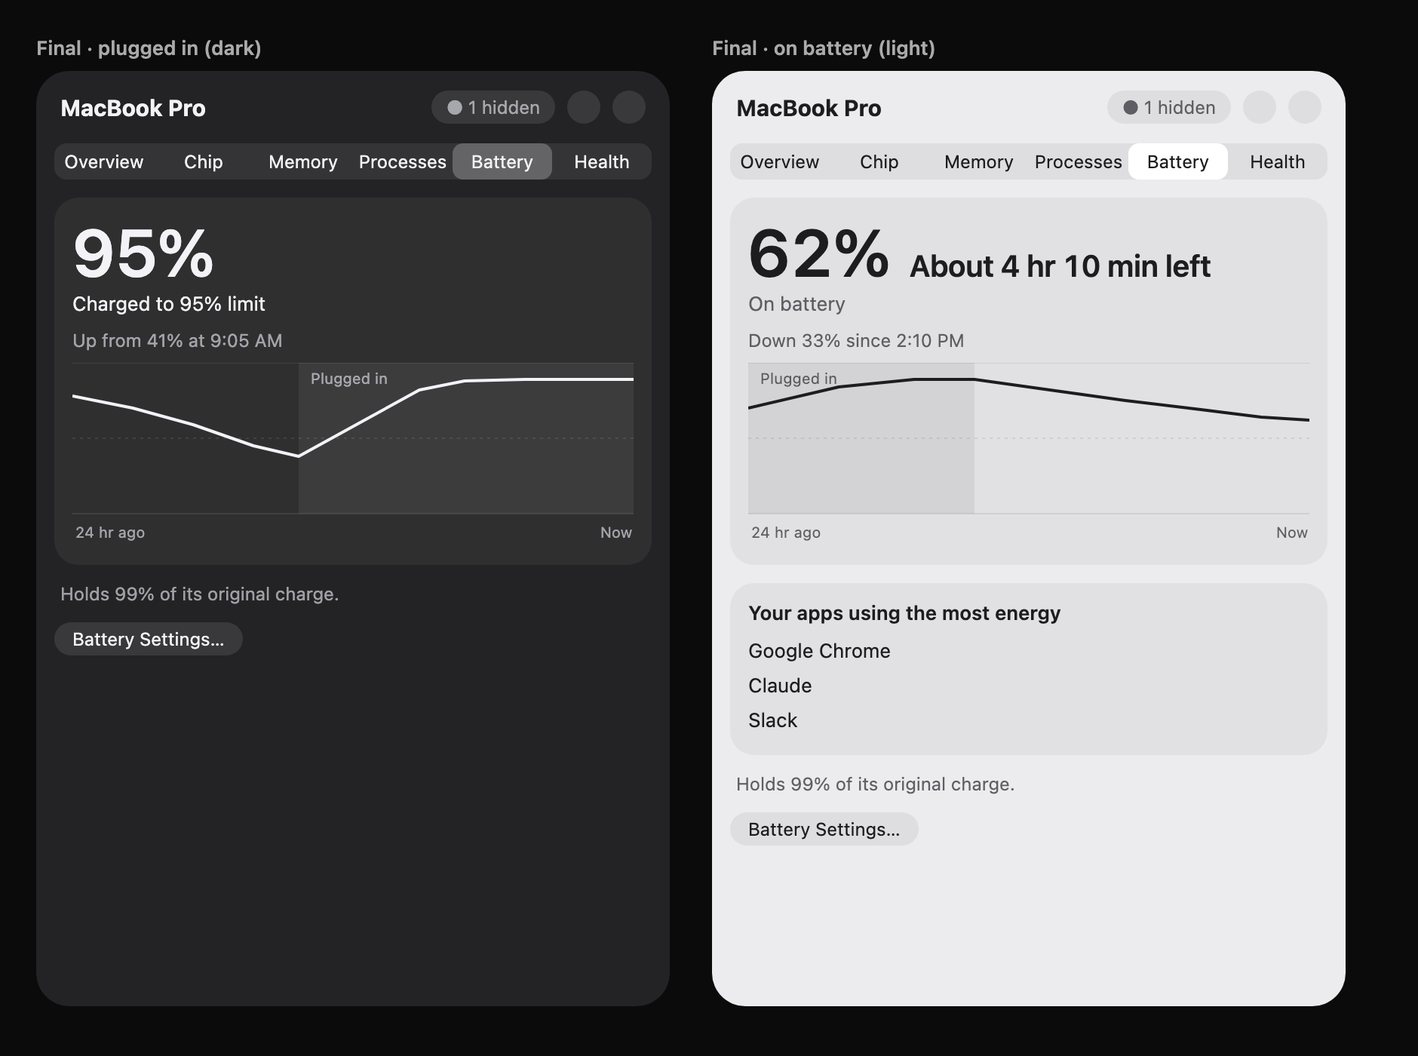
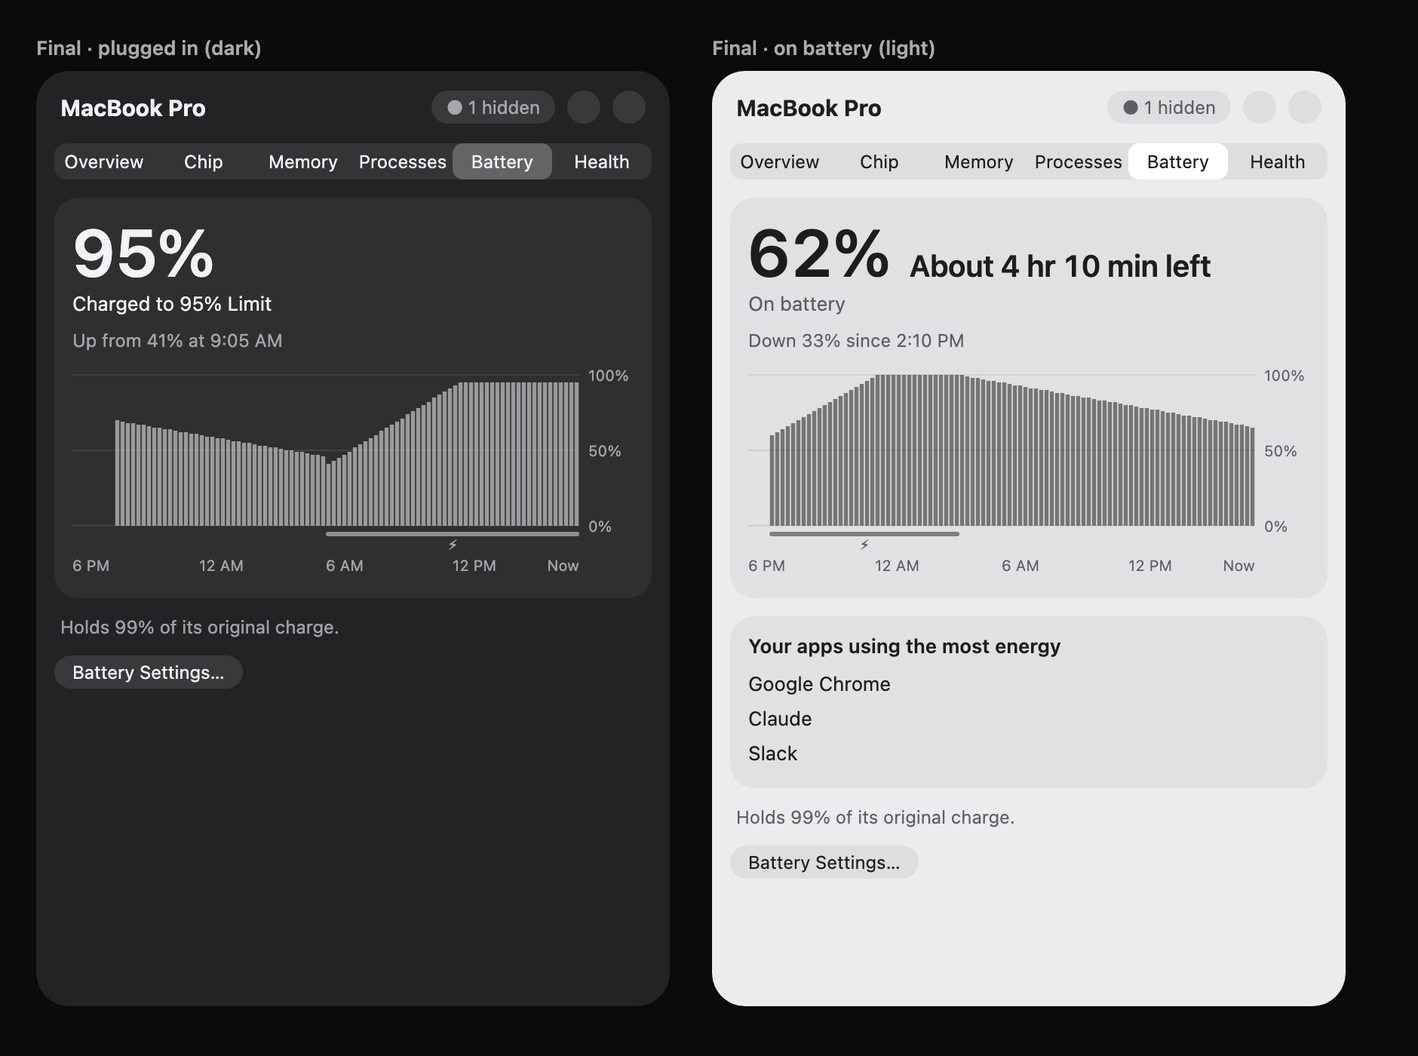
Vitals Battery design: lessons from macOS Battery settings (Apple-style chart, exact wording, Low Power Mode)

diff --git a/research/vitals-battery-redesign/final.html b/research/vitals-battery-redesign/final.html
@@ -32,24 +32,216 @@ svg text{font:10px -apple-system,system-ui;fill:var(--t3)}
 </style></head><body><div class="wrap"><div class="cap">Final · plugged in (dark)</div><div class="p"><div class="hd"><b>MacBook Pro</b><span class="cap2">● 1 hidden</span><span class="circ"></span><span class="circ"></span></div>
 <div class="seg"><span>Overview</span><span>Chip</span><span>Memory</span><span>Processes</span><span class="on">Battery</span><span>Health</span></div>
 <div class="m"><span class="fig" style="font-size:44px;line-height:1.1">95%</span>
-<div style="font-size:13px;margin-top:2px">Charged to 95% limit</div><div class="sub" style="margin-top:10px">Up from 41% at 9:05 AM</div>
-<svg width="372" height="122" viewBox="0 0 372 122" style="display:block;margin-top:8px">
-  <rect x="150" y="0" width="222" height="100" fill="var(--t1)" opacity=".07"/>
-  <text x="158" y="14" style="fill:var(--t2)">Plugged in</text>
-  <line x1="0" y1="0" x2="372" y2="0" stroke="var(--line)"/><line x1="0" y1="50" x2="372" y2="50" stroke="var(--line)" stroke-dasharray="2 3"/><line x1="0" y1="100" x2="372" y2="100" stroke="var(--line)"/>
-  <path d="M0 22 L40 30 L80 41 L120 55 L150 62 L190 40 L230 18 L260 12 L300 11 L372 11" fill="none" stroke="var(--t1)" stroke-width="2" stroke-linejoin="round"/>
-  <text x="2" y="116" style="fill:var(--t2)">24 hr ago</text><text x="350" y="116" style="fill:var(--t2)">Now</text></svg></div>
+<div style="font-size:13px;margin-top:2px">Charged to 95% Limit</div><div class="sub" style="margin-top:10px">Up from 41% at 9:05 AM</div>
+<svg width="372" height="144" viewBox="0 -8 372 144" style="display:block;margin-top:8px">
+<line x1="0" y1="0" x2="336" y2="0" stroke="var(--line)"/><text x="342" y="4" style="fill:var(--t2)">100%</text>
+<line x1="0" y1="50" x2="336" y2="50" stroke="var(--line)"/><text x="342" y="54" style="fill:var(--t2)">50%</text>
+<line x1="0" y1="100" x2="336" y2="100" stroke="var(--line)"/><text x="342" y="104" style="fill:var(--t2)">0%</text>
+<rect x="28.4" y="30" width="2.7" height="70" fill="var(--t1)" opacity=".55"/>
+<rect x="31.9" y="31" width="2.7" height="69" fill="var(--t1)" opacity=".55"/>
+<rect x="35.4" y="32" width="2.7" height="68" fill="var(--t1)" opacity=".55"/>
+<rect x="38.9" y="32" width="2.7" height="68" fill="var(--t1)" opacity=".55"/>
+<rect x="42.4" y="33" width="2.7" height="67" fill="var(--t1)" opacity=".55"/>
+<rect x="45.9" y="33" width="2.7" height="67" fill="var(--t1)" opacity=".55"/>
+<rect x="49.4" y="34" width="2.7" height="66" fill="var(--t1)" opacity=".55"/>
+<rect x="52.9" y="35" width="2.7" height="65" fill="var(--t1)" opacity=".55"/>
+<rect x="56.4" y="35" width="2.7" height="65" fill="var(--t1)" opacity=".55"/>
+<rect x="59.9" y="36" width="2.7" height="64" fill="var(--t1)" opacity=".55"/>
+<rect x="63.4" y="36" width="2.7" height="64" fill="var(--t1)" opacity=".55"/>
+<rect x="66.9" y="37" width="2.7" height="63" fill="var(--t1)" opacity=".55"/>
+<rect x="70.4" y="38" width="2.7" height="62" fill="var(--t1)" opacity=".55"/>
+<rect x="73.9" y="38" width="2.7" height="62" fill="var(--t1)" opacity=".55"/>
+<rect x="77.4" y="39" width="2.7" height="61" fill="var(--t1)" opacity=".55"/>
+<rect x="80.9" y="39" width="2.7" height="61" fill="var(--t1)" opacity=".55"/>
+<rect x="84.4" y="40" width="2.7" height="60" fill="var(--t1)" opacity=".55"/>
+<rect x="87.9" y="41" width="2.7" height="59" fill="var(--t1)" opacity=".55"/>
+<rect x="91.4" y="41" width="2.7" height="59" fill="var(--t1)" opacity=".55"/>
+<rect x="94.9" y="42" width="2.7" height="58" fill="var(--t1)" opacity=".55"/>
+<rect x="98.4" y="42" width="2.7" height="58" fill="var(--t1)" opacity=".55"/>
+<rect x="101.9" y="43" width="2.7" height="57" fill="var(--t1)" opacity=".55"/>
+<rect x="105.4" y="44" width="2.7" height="56" fill="var(--t1)" opacity=".55"/>
+<rect x="108.9" y="44" width="2.7" height="56" fill="var(--t1)" opacity=".55"/>
+<rect x="112.4" y="45" width="2.7" height="55" fill="var(--t1)" opacity=".55"/>
+<rect x="115.9" y="45" width="2.7" height="55" fill="var(--t1)" opacity=".55"/>
+<rect x="119.4" y="46" width="2.7" height="54" fill="var(--t1)" opacity=".55"/>
+<rect x="122.9" y="47" width="2.7" height="53" fill="var(--t1)" opacity=".55"/>
+<rect x="126.4" y="47" width="2.7" height="53" fill="var(--t1)" opacity=".55"/>
+<rect x="129.9" y="48" width="2.7" height="52" fill="var(--t1)" opacity=".55"/>
+<rect x="133.4" y="48" width="2.7" height="52" fill="var(--t1)" opacity=".55"/>
+<rect x="136.9" y="49" width="2.7" height="51" fill="var(--t1)" opacity=".55"/>
+<rect x="140.4" y="50" width="2.7" height="50" fill="var(--t1)" opacity=".55"/>
+<rect x="143.9" y="50" width="2.7" height="50" fill="var(--t1)" opacity=".55"/>
+<rect x="147.4" y="51" width="2.7" height="49" fill="var(--t1)" opacity=".55"/>
+<rect x="150.9" y="51" width="2.7" height="49" fill="var(--t1)" opacity=".55"/>
+<rect x="154.4" y="52" width="2.7" height="48" fill="var(--t1)" opacity=".55"/>
+<rect x="157.9" y="53" width="2.7" height="47" fill="var(--t1)" opacity=".55"/>
+<rect x="161.4" y="53" width="2.7" height="47" fill="var(--t1)" opacity=".55"/>
+<rect x="164.9" y="54" width="2.7" height="46" fill="var(--t1)" opacity=".55"/>
+<rect x="168.4" y="59" width="2.7" height="41" fill="var(--t1)" opacity=".55"/>
+<rect x="171.9" y="57" width="2.7" height="43" fill="var(--t1)" opacity=".55"/>
+<rect x="175.4" y="55" width="2.7" height="45" fill="var(--t1)" opacity=".55"/>
+<rect x="178.9" y="53" width="2.7" height="47" fill="var(--t1)" opacity=".55"/>
+<rect x="182.4" y="51" width="2.7" height="49" fill="var(--t1)" opacity=".55"/>
+<rect x="185.9" y="48" width="2.7" height="52" fill="var(--t1)" opacity=".55"/>
+<rect x="189.4" y="46" width="2.7" height="54" fill="var(--t1)" opacity=".55"/>
+<rect x="192.9" y="44" width="2.7" height="56" fill="var(--t1)" opacity=".55"/>
+<rect x="196.4" y="42" width="2.7" height="58" fill="var(--t1)" opacity=".55"/>
+<rect x="199.9" y="40" width="2.7" height="60" fill="var(--t1)" opacity=".55"/>
+<rect x="203.4" y="37" width="2.7" height="63" fill="var(--t1)" opacity=".55"/>
+<rect x="206.9" y="35" width="2.7" height="65" fill="var(--t1)" opacity=".55"/>
+<rect x="210.4" y="33" width="2.7" height="67" fill="var(--t1)" opacity=".55"/>
+<rect x="213.9" y="31" width="2.7" height="69" fill="var(--t1)" opacity=".55"/>
+<rect x="217.4" y="29" width="2.7" height="71" fill="var(--t1)" opacity=".55"/>
+<rect x="220.9" y="26" width="2.7" height="74" fill="var(--t1)" opacity=".55"/>
+<rect x="224.4" y="24" width="2.7" height="76" fill="var(--t1)" opacity=".55"/>
+<rect x="227.9" y="22" width="2.7" height="78" fill="var(--t1)" opacity=".55"/>
+<rect x="231.4" y="20" width="2.7" height="80" fill="var(--t1)" opacity=".55"/>
+<rect x="234.9" y="18" width="2.7" height="82" fill="var(--t1)" opacity=".55"/>
+<rect x="238.4" y="15" width="2.7" height="85" fill="var(--t1)" opacity=".55"/>
+<rect x="241.9" y="13" width="2.7" height="87" fill="var(--t1)" opacity=".55"/>
+<rect x="245.4" y="11" width="2.7" height="89" fill="var(--t1)" opacity=".55"/>
+<rect x="248.9" y="9" width="2.7" height="91" fill="var(--t1)" opacity=".55"/>
+<rect x="252.4" y="7" width="2.7" height="93" fill="var(--t1)" opacity=".55"/>
+<rect x="255.9" y="5" width="2.7" height="95" fill="var(--t1)" opacity=".55"/>
+<rect x="259.4" y="5" width="2.7" height="95" fill="var(--t1)" opacity=".55"/>
+<rect x="262.9" y="5" width="2.7" height="95" fill="var(--t1)" opacity=".55"/>
+<rect x="266.4" y="5" width="2.7" height="95" fill="var(--t1)" opacity=".55"/>
+<rect x="269.9" y="5" width="2.7" height="95" fill="var(--t1)" opacity=".55"/>
+<rect x="273.4" y="5" width="2.7" height="95" fill="var(--t1)" opacity=".55"/>
+<rect x="276.9" y="5" width="2.7" height="95" fill="var(--t1)" opacity=".55"/>
+<rect x="280.4" y="5" width="2.7" height="95" fill="var(--t1)" opacity=".55"/>
+<rect x="283.9" y="5" width="2.7" height="95" fill="var(--t1)" opacity=".55"/>
+<rect x="287.4" y="5" width="2.7" height="95" fill="var(--t1)" opacity=".55"/>
+<rect x="290.9" y="5" width="2.7" height="95" fill="var(--t1)" opacity=".55"/>
+<rect x="294.4" y="5" width="2.7" height="95" fill="var(--t1)" opacity=".55"/>
+<rect x="297.9" y="5" width="2.7" height="95" fill="var(--t1)" opacity=".55"/>
+<rect x="301.4" y="5" width="2.7" height="95" fill="var(--t1)" opacity=".55"/>
+<rect x="304.9" y="5" width="2.7" height="95" fill="var(--t1)" opacity=".55"/>
+<rect x="308.4" y="5" width="2.7" height="95" fill="var(--t1)" opacity=".55"/>
+<rect x="311.9" y="5" width="2.7" height="95" fill="var(--t1)" opacity=".55"/>
+<rect x="315.4" y="5" width="2.7" height="95" fill="var(--t1)" opacity=".55"/>
+<rect x="318.9" y="5" width="2.7" height="95" fill="var(--t1)" opacity=".55"/>
+<rect x="322.4" y="5" width="2.7" height="95" fill="var(--t1)" opacity=".55"/>
+<rect x="325.9" y="5" width="2.7" height="95" fill="var(--t1)" opacity=".55"/>
+<rect x="329.4" y="5" width="2.7" height="95" fill="var(--t1)" opacity=".55"/>
+<rect x="332.9" y="5" width="2.7" height="95" fill="var(--t1)" opacity=".55"/>
+<rect x="168.0" y="104" width="168.0" height="3" rx="1.5" fill="var(--t1)" opacity=".5"/>
+<text x="249.0" y="116" style="fill:var(--t2)">⚡</text>
+<text x="0.0" y="130" text-anchor="start" style="fill:var(--t2)">6 PM</text>
+<text x="84.0" y="130" text-anchor="start" style="fill:var(--t2)">12 AM</text>
+<text x="168.0" y="130" text-anchor="start" style="fill:var(--t2)">6 AM</text>
+<text x="252.0" y="130" text-anchor="start" style="fill:var(--t2)">12 PM</text>
+<text x="336" y="130" text-anchor="end" style="fill:var(--t2)">Now</text>
+</svg></div>
 <div class="sub" style="padding:0 4px 12px">Holds 99% of its original charge.</div>
 <span class="btn">Battery Settings…</span></div></div><div class="wrap"><div class="cap">Final · on battery (light)</div><div class="p light"><div class="hd"><b>MacBook Pro</b><span class="cap2">● 1 hidden</span><span class="circ"></span><span class="circ"></span></div>
 <div class="seg"><span>Overview</span><span>Chip</span><span>Memory</span><span>Processes</span><span class="on">Battery</span><span>Health</span></div>
 <div class="m"><div style="display:flex;align-items:baseline;gap:12px"><span class="fig" style="font-size:44px;line-height:1.1">62%</span><span class="fig" style="font-size:20px">About 4 hr 10 min left</span></div>
 <div class="sub" style="font-size:13px;margin-top:2px">On battery</div><div class="sub" style="margin-top:10px">Down 33% since 2:10 PM</div>
-<svg width="372" height="122" viewBox="0 0 372 122" style="display:block;margin-top:8px">
-  <rect x="0" y="0" width="150" height="100" fill="var(--t1)" opacity=".07"/>
-  <text x="8" y="14" style="fill:var(--t2)">Plugged in</text>
-  <line x1="0" y1="0" x2="372" y2="0" stroke="var(--line)"/><line x1="0" y1="50" x2="372" y2="50" stroke="var(--line)" stroke-dasharray="2 3"/><line x1="0" y1="100" x2="372" y2="100" stroke="var(--line)"/>
-  <path d="M0 30 L60 16 L110 11 L150 11 L200 18 L250 25 L300 31 L340 36 L372 38" fill="none" stroke="var(--t1)" stroke-width="2" stroke-linejoin="round"/>
-  <text x="2" y="116" style="fill:var(--t2)">24 hr ago</text><text x="350" y="116" style="fill:var(--t2)">Now</text></svg></div>
+<svg width="372" height="144" viewBox="0 -8 372 144" style="display:block;margin-top:8px">
+<line x1="0" y1="0" x2="336" y2="0" stroke="var(--line)"/><text x="342" y="4" style="fill:var(--t2)">100%</text>
+<line x1="0" y1="50" x2="336" y2="50" stroke="var(--line)"/><text x="342" y="54" style="fill:var(--t2)">50%</text>
+<line x1="0" y1="100" x2="336" y2="100" stroke="var(--line)"/><text x="342" y="104" style="fill:var(--t2)">0%</text>
+<rect x="14.4" y="40" width="2.7" height="60" fill="var(--t1)" opacity=".55"/>
+<rect x="17.9" y="38" width="2.7" height="62" fill="var(--t1)" opacity=".55"/>
+<rect x="21.4" y="36" width="2.7" height="64" fill="var(--t1)" opacity=".55"/>
+<rect x="24.9" y="34" width="2.7" height="66" fill="var(--t1)" opacity=".55"/>
+<rect x="28.4" y="32" width="2.7" height="68" fill="var(--t1)" opacity=".55"/>
+<rect x="31.9" y="30" width="2.7" height="70" fill="var(--t1)" opacity=".55"/>
+<rect x="35.4" y="28" width="2.7" height="72" fill="var(--t1)" opacity=".55"/>
+<rect x="38.9" y="26" width="2.7" height="74" fill="var(--t1)" opacity=".55"/>
+<rect x="42.4" y="24" width="2.7" height="76" fill="var(--t1)" opacity=".55"/>
+<rect x="45.9" y="22" width="2.7" height="78" fill="var(--t1)" opacity=".55"/>
+<rect x="49.4" y="20" width="2.7" height="80" fill="var(--t1)" opacity=".55"/>
+<rect x="52.9" y="18" width="2.7" height="82" fill="var(--t1)" opacity=".55"/>
+<rect x="56.4" y="16" width="2.7" height="84" fill="var(--t1)" opacity=".55"/>
+<rect x="59.9" y="14" width="2.7" height="86" fill="var(--t1)" opacity=".55"/>
+<rect x="63.4" y="12" width="2.7" height="88" fill="var(--t1)" opacity=".55"/>
+<rect x="66.9" y="10" width="2.7" height="90" fill="var(--t1)" opacity=".55"/>
+<rect x="70.4" y="8" width="2.7" height="92" fill="var(--t1)" opacity=".55"/>
+<rect x="73.9" y="6" width="2.7" height="94" fill="var(--t1)" opacity=".55"/>
+<rect x="77.4" y="4" width="2.7" height="96" fill="var(--t1)" opacity=".55"/>
+<rect x="80.9" y="2" width="2.7" height="98" fill="var(--t1)" opacity=".55"/>
+<rect x="84.4" y="0" width="2.7" height="100" fill="var(--t1)" opacity=".55"/>
+<rect x="87.9" y="0" width="2.7" height="100" fill="var(--t1)" opacity=".55"/>
+<rect x="91.4" y="0" width="2.7" height="100" fill="var(--t1)" opacity=".55"/>
+<rect x="94.9" y="0" width="2.7" height="100" fill="var(--t1)" opacity=".55"/>
+<rect x="98.4" y="0" width="2.7" height="100" fill="var(--t1)" opacity=".55"/>
+<rect x="101.9" y="0" width="2.7" height="100" fill="var(--t1)" opacity=".55"/>
+<rect x="105.4" y="0" width="2.7" height="100" fill="var(--t1)" opacity=".55"/>
+<rect x="108.9" y="0" width="2.7" height="100" fill="var(--t1)" opacity=".55"/>
+<rect x="112.4" y="0" width="2.7" height="100" fill="var(--t1)" opacity=".55"/>
+<rect x="115.9" y="0" width="2.7" height="100" fill="var(--t1)" opacity=".55"/>
+<rect x="119.4" y="0" width="2.7" height="100" fill="var(--t1)" opacity=".55"/>
+<rect x="122.9" y="0" width="2.7" height="100" fill="var(--t1)" opacity=".55"/>
+<rect x="126.4" y="0" width="2.7" height="100" fill="var(--t1)" opacity=".55"/>
+<rect x="129.9" y="0" width="2.7" height="100" fill="var(--t1)" opacity=".55"/>
+<rect x="133.4" y="0" width="2.7" height="100" fill="var(--t1)" opacity=".55"/>
+<rect x="136.9" y="0" width="2.7" height="100" fill="var(--t1)" opacity=".55"/>
+<rect x="140.4" y="0" width="2.7" height="100" fill="var(--t1)" opacity=".55"/>
+<rect x="143.9" y="1" width="2.7" height="99" fill="var(--t1)" opacity=".55"/>
+<rect x="147.4" y="2" width="2.7" height="98" fill="var(--t1)" opacity=".55"/>
+<rect x="150.9" y="2" width="2.7" height="98" fill="var(--t1)" opacity=".55"/>
+<rect x="154.4" y="3" width="2.7" height="97" fill="var(--t1)" opacity=".55"/>
+<rect x="157.9" y="4" width="2.7" height="96" fill="var(--t1)" opacity=".55"/>
+<rect x="161.4" y="4" width="2.7" height="96" fill="var(--t1)" opacity=".55"/>
+<rect x="164.9" y="5" width="2.7" height="95" fill="var(--t1)" opacity=".55"/>
+<rect x="168.4" y="5" width="2.7" height="95" fill="var(--t1)" opacity=".55"/>
+<rect x="171.9" y="6" width="2.7" height="94" fill="var(--t1)" opacity=".55"/>
+<rect x="175.4" y="7" width="2.7" height="93" fill="var(--t1)" opacity=".55"/>
+<rect x="178.9" y="7" width="2.7" height="93" fill="var(--t1)" opacity=".55"/>
+<rect x="182.4" y="8" width="2.7" height="92" fill="var(--t1)" opacity=".55"/>
+<rect x="185.9" y="9" width="2.7" height="91" fill="var(--t1)" opacity=".55"/>
+<rect x="189.4" y="9" width="2.7" height="91" fill="var(--t1)" opacity=".55"/>
+<rect x="192.9" y="10" width="2.7" height="90" fill="var(--t1)" opacity=".55"/>
+<rect x="196.4" y="10" width="2.7" height="90" fill="var(--t1)" opacity=".55"/>
+<rect x="199.9" y="11" width="2.7" height="89" fill="var(--t1)" opacity=".55"/>
+<rect x="203.4" y="12" width="2.7" height="88" fill="var(--t1)" opacity=".55"/>
+<rect x="206.9" y="12" width="2.7" height="88" fill="var(--t1)" opacity=".55"/>
+<rect x="210.4" y="13" width="2.7" height="87" fill="var(--t1)" opacity=".55"/>
+<rect x="213.9" y="14" width="2.7" height="86" fill="var(--t1)" opacity=".55"/>
+<rect x="217.4" y="14" width="2.7" height="86" fill="var(--t1)" opacity=".55"/>
+<rect x="220.9" y="15" width="2.7" height="85" fill="var(--t1)" opacity=".55"/>
+<rect x="224.4" y="15" width="2.7" height="85" fill="var(--t1)" opacity=".55"/>
+<rect x="227.9" y="16" width="2.7" height="84" fill="var(--t1)" opacity=".55"/>
+<rect x="231.4" y="17" width="2.7" height="83" fill="var(--t1)" opacity=".55"/>
+<rect x="234.9" y="17" width="2.7" height="83" fill="var(--t1)" opacity=".55"/>
+<rect x="238.4" y="18" width="2.7" height="82" fill="var(--t1)" opacity=".55"/>
+<rect x="241.9" y="18" width="2.7" height="82" fill="var(--t1)" opacity=".55"/>
+<rect x="245.4" y="19" width="2.7" height="81" fill="var(--t1)" opacity=".55"/>
+<rect x="248.9" y="20" width="2.7" height="80" fill="var(--t1)" opacity=".55"/>
+<rect x="252.4" y="20" width="2.7" height="80" fill="var(--t1)" opacity=".55"/>
+<rect x="255.9" y="21" width="2.7" height="79" fill="var(--t1)" opacity=".55"/>
+<rect x="259.4" y="22" width="2.7" height="78" fill="var(--t1)" opacity=".55"/>
+<rect x="262.9" y="22" width="2.7" height="78" fill="var(--t1)" opacity=".55"/>
+<rect x="266.4" y="23" width="2.7" height="77" fill="var(--t1)" opacity=".55"/>
+<rect x="269.9" y="23" width="2.7" height="77" fill="var(--t1)" opacity=".55"/>
+<rect x="273.4" y="24" width="2.7" height="76" fill="var(--t1)" opacity=".55"/>
+<rect x="276.9" y="25" width="2.7" height="75" fill="var(--t1)" opacity=".55"/>
+<rect x="280.4" y="25" width="2.7" height="75" fill="var(--t1)" opacity=".55"/>
+<rect x="283.9" y="26" width="2.7" height="74" fill="var(--t1)" opacity=".55"/>
+<rect x="287.4" y="27" width="2.7" height="73" fill="var(--t1)" opacity=".55"/>
+<rect x="290.9" y="27" width="2.7" height="73" fill="var(--t1)" opacity=".55"/>
+<rect x="294.4" y="28" width="2.7" height="72" fill="var(--t1)" opacity=".55"/>
+<rect x="297.9" y="28" width="2.7" height="72" fill="var(--t1)" opacity=".55"/>
+<rect x="301.4" y="29" width="2.7" height="71" fill="var(--t1)" opacity=".55"/>
+<rect x="304.9" y="30" width="2.7" height="70" fill="var(--t1)" opacity=".55"/>
+<rect x="308.4" y="30" width="2.7" height="70" fill="var(--t1)" opacity=".55"/>
+<rect x="311.9" y="31" width="2.7" height="69" fill="var(--t1)" opacity=".55"/>
+<rect x="315.4" y="31" width="2.7" height="69" fill="var(--t1)" opacity=".55"/>
+<rect x="318.9" y="32" width="2.7" height="68" fill="var(--t1)" opacity=".55"/>
+<rect x="322.4" y="33" width="2.7" height="67" fill="var(--t1)" opacity=".55"/>
+<rect x="325.9" y="33" width="2.7" height="67" fill="var(--t1)" opacity=".55"/>
+<rect x="329.4" y="34" width="2.7" height="66" fill="var(--t1)" opacity=".55"/>
+<rect x="332.9" y="35" width="2.7" height="65" fill="var(--t1)" opacity=".55"/>
+<rect x="14.0" y="104" width="126.0" height="3" rx="1.5" fill="var(--t1)" opacity=".5"/>
+<text x="74.0" y="116" style="fill:var(--t2)">⚡</text>
+<text x="0.0" y="130" text-anchor="start" style="fill:var(--t2)">6 PM</text>
+<text x="84.0" y="130" text-anchor="start" style="fill:var(--t2)">12 AM</text>
+<text x="168.0" y="130" text-anchor="start" style="fill:var(--t2)">6 AM</text>
+<text x="252.0" y="130" text-anchor="start" style="fill:var(--t2)">12 PM</text>
+<text x="336" y="130" text-anchor="end" style="fill:var(--t2)">Now</text>
+</svg></div>
 <div class="m"><div class="h" style="margin-bottom:6px">Your apps using the most energy</div>
 <div class="row"><span>Google Chrome</span></div>
 <div class="row"><span>Claude</span></div>

diff --git a/prompts/vitals-battery-tab.md b/prompts/vitals-battery-tab.md
@@ -10,11 +10,18 @@ What to build:
      - "Charging", "On battery".
      - Otherwise "Plugged in, not charging".
    - Read the plist on tab open and when the power source changes, not on every tick. If it is missing or unreadable, fall back silently.
+   - The plist's `policies` value is an NSKeyedArchiver blob whose class (ChargeCtrlPolicy) is private. Decode it with PropertyListSerialization and read the `$objects` array for `reason` and `soclimit`. Never instantiate the private class or use NSKeyedUnarchiver on it. The same object has `noChargeToFull` and `isEndOfCharge`; note what they read in each state, but don't build on them.
+   - Copy Apple's exact words: Settings and the menu bar say "Charged to 95% Limit", with a capital L.
+   - Low Power Mode: when ProcessInfo.isLowPowerModeEnabled is true, add "Low Power Mode is on" under the status line. Use the public API, no polling; listen for NSProcessInfoPowerStateDidChange.
+   - Optimized Battery Charging is on for Evan (Settings > Battery > Charging), so macOS can pause at 80%. If you can't detect that state from a documented signal, the "Plugged in, not charging" fallback covers it.
    - Never infer a reason from NotChargingReason bits. Leave "Charging on hold" out of code, snapshots and the contract unless you find a documented signal.
 2. A summary line ("Up from 41% at 9:05 AM" / "Down 33% since 2:10 PM"), then a last-24-hours charge chart.
-   - Y axis fixed at 0 to 100% with a faint 50% rule.
-   - Plugged-in stretches are a neutral band labelled "Plugged in", never green. Strengthen the band under Increase Contrast.
-   - Gaps stay open. Axis labels "24 hr ago" and "Now" in .secondary.
+   - Draw it like System Settings > Battery > Battery Level, so it reads as the same thing:
+     - One bar per 15 minutes (the average of the readings in that slot). A slot with no reading has no bar.
+     - Y axis 0%, 50%, 100% labelled on the right. Hour labels (6 PM, 12 AM, 6 AM, 12 PM, Now) along the bottom.
+     - Charging stretches are a thin strip under the axis with a bolt symbol, not a band behind the bars.
+     - Bars and strip in a neutral foreground style, never green: in Vitals colour only means a status.
+     - Strengthen the strip under Increase Contrast. All labels in .secondary.
    - One VoiceOver label, e.g. "Last 24 hours: 41% at 9:05 AM, now 95%, plugged in since 9:05 AM".
    - History source: `pmset -g log`. Parse it only while the Battery tab is showing and the cache is older than 10 min, never while the panel is closed. Run it off the main thread with a 5 s timeout. Stream the output and keep only the last 24 h of "Charge: NN" and AC/battery lines; discard everything else, since it names processes.
    - Merge in Vitals' own battery readings since launch, kept in memory only. If the parse fails, show only those readings; missing time stays empty.

diff --git a/research/vitals-battery-redesign/README.md b/research/vitals-battery-redesign/README.md
@@ -28,3 +28,20 @@ Blind read (reviewer not told which was preferred): **B, then A, then C**. B ans
 4. **Battery Settings…** as a normal glass button, not dimmed.
 
 Cut: watts, adapter row, cycle row, temperature, the "Power source" row.
+
+## What macOS Battery settings taught us (looked at Nov 11, read only, nothing changed)
+- **Wording.** The header and the chart both say "Charged to 95% Limit", with a capital L. Vitals now copies it exactly.
+- **Health.** Apple shows only Battery Condition ("Normal") and Maximum Capacity ("99%"), each with one plain sentence. It shows no cycle count, which backs cutting it from the tab.
+- **Charging sheet.**
+  - Charge Limit slider: 80, 85, 90, 95 or 100%. Evan's is 95%.
+  - Optimized Battery Charging is on, so a pause at 80% can happen. Vitals falls back to "Plugged in, not charging" unless a documented signal exists.
+- **Last 24 Hours chart.**
+  - Battery Level is drawn as one bar per 15 minutes on a 0, 50 and 100% scale labelled on the right, with hour ticks along the bottom.
+  - Charging is a green strip with a bolt under the axis, not a band behind the bars.
+  - The design now uses the same layout in neutral grey, because Vitals keeps colour for status.
+- **Last 10 Days.**
+  - Energy Usage is the share of the battery used per day; Screen On Usage is hours per day.
+  - Left to Settings: Vitals can't read screen time, and the panel is small. "Battery Settings…" opens it.
+- **Low Power Mode** sits at the top of the pane. Vitals can read it through `ProcessInfo.isLowPowerModeEnabled` (public, no prompt), so the tab says "Low Power Mode is on" when it is.
+- **Not used:** Options (dim the display on battery, wake for network access, and so on) are settings, not readings.
+- **The powerd plist's `policies`** is an NSKeyedArchiver blob of a private class. Read it as a plain property list and never unarchive it.
